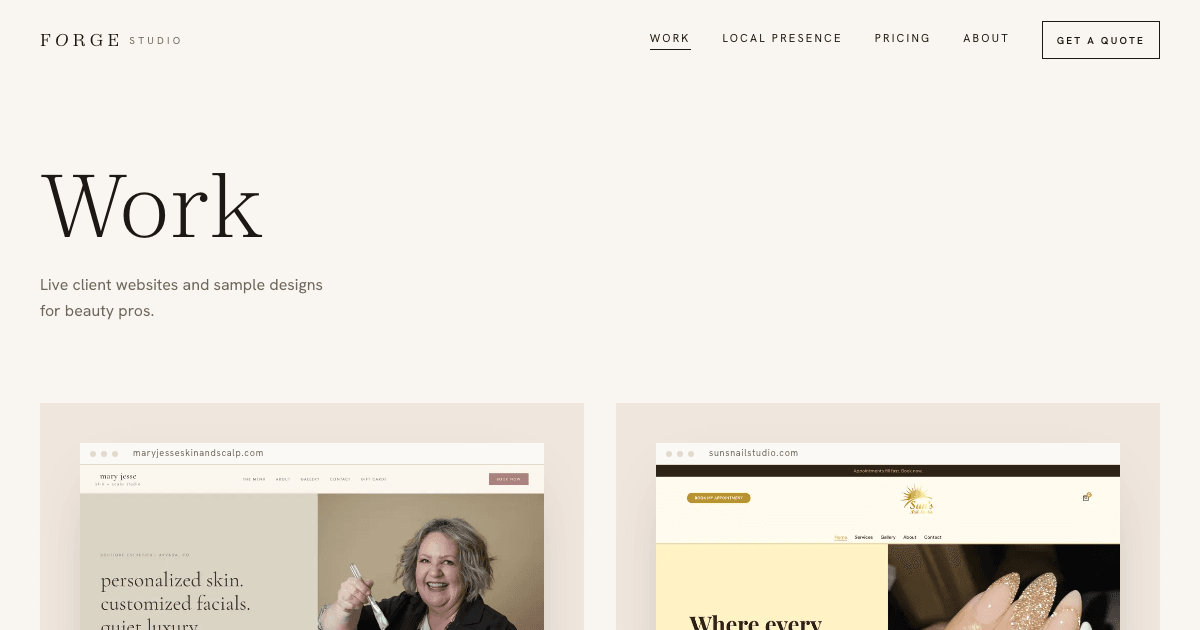
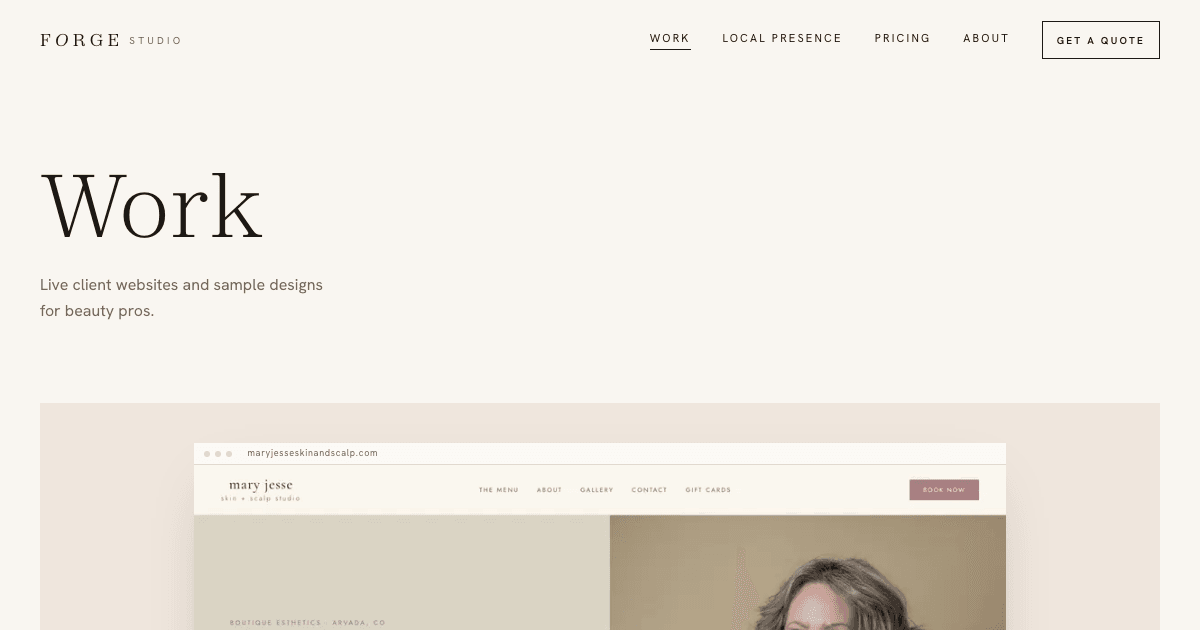
Add Maui Girl Nails, Victoria's Nail Secrets and AlyZel; Mary appears once on the homepage
Mary is Fig. 1 in the hero, so Recent work continues from Fig. 2 (Maui, Victoria,
AlyZel, Lumiere). Velvet moves to /portfolio only. Work page: Mary full width, then
Sun's, then the five sample designs. Shown with the owners' permission.

Changed region(s): [[0.0617, 0.6937, 0.9558, 1.0]]

diff --git a/lib/work.ts b/lib/work.ts
@@ -13,7 +13,7 @@ export type Project = {
   blurb: string
 }
 
-export const projects: Record<"mary" | "suns" | "lumiere" | "velvet", Project> = {
+export const projects: Record<"mary" | "suns" | "maui" | "victoria" | "alyzel" | "lumiere" | "velvet", Project> = {
   mary: {
     slug: "mary",
     name: "Mary Jesse Skin + Scalp Studio",
@@ -39,6 +39,47 @@ export const projects: Record<"mary" | "suns" | "lumiere" | "velvet", Project> =
     image900: "/images/work/suns-desktop-900.webp",
     alt: "Homepage of Sun's Nail Studio: \"Where every set shines.\" beside a close-up of a glitter manicure",
     blurb: "Appointment-first design for a solo studio, no front desk needed",
+  },
+  // Maui Girl Nails, Victoria's Nail Secrets and AlyZel: designs for real businesses that
+  // didn't go ahead. Shown with the owners' permission (Gaurav, 2026-11-19).
+  maui: {
+    slug: "maui",
+    name: "Maui Girl Nails",
+    category: "Nail Artist",
+    live: false,
+    url: "https://mauigirlnails.pages.dev",
+    external: true,
+    domain: "mauigirlnails.pages.dev",
+    image: "/images/work/maui-desktop.webp",
+    image900: "/images/work/maui-desktop-900.webp",
+    alt: "Homepage of the Maui Girl Nails design: \"Your little piece of Maui, right here in Sparks\" beside a photo of a nude and rose-gold manicure",
+    blurb: "One-artist studio site with Vagaro booking and a tap-a-color gallery of her sets",
+  },
+  victoria: {
+    slug: "victoria",
+    name: "Victoria's Nail Secrets",
+    category: "Nail Artist",
+    live: false,
+    url: "https://victoriasnailsecrets.pages.dev",
+    external: true,
+    domain: "victoriasnailsecrets.pages.dev",
+    image: "/images/work/victoria-desktop.webp",
+    image900: "/images/work/victoria-desktop-900.webp",
+    alt: "Homepage of the Victoria's Nail Secrets design: a dark, moody portrait under a gothic wordmark",
+    blurb: "Dark, editorial site for a custom acrylic artist, built around DM booking",
+  },
+  alyzel: {
+    slug: "alyzel",
+    name: "AlyZel Aesthetics & Wellness",
+    category: "Med Spa",
+    live: false,
+    url: "https://alyzel.pages.dev",
+    external: true,
+    domain: "alyzel.pages.dev",
+    image: "/images/work/alyzel-desktop.webp",
+    image900: "/images/work/alyzel-desktop-900.webp",
+    alt: "Homepage of the AlyZel Aesthetics & Wellness design: a bold pink page with the headline \"Making people happier, one injection at a time\"",
+    blurb: "Bold, pink med spa site for a nurse injector in Lubbock, TX, with booking and a direct line up front",
   },
   lumiere: {
     slug: "lumiere",

diff --git a/app/page.tsx b/app/page.tsx
@@ -51,7 +51,7 @@ const faqs = [
 ]
 
 export default function Home() {
-  const { mary, lumiere, velvet } = projects
+  const { mary, maui, victoria, alyzel, lumiere } = projects
 
   return (
     <>
@@ -99,26 +99,16 @@ export default function Home() {
             <a href="/portfolio" className="s-btn s-btn-outline self-start sm:self-auto">See all work</a>
           </div>
 
-          <div className="grid grid-cols-1 md:grid-cols-12 gap-x-8 gap-y-14">
-            <a {...workLinkProps(mary)} className="s-work-card reveal md:col-span-7 block">
-              <span className="s-plate flex items-center justify-center aspect-[4/5] md:aspect-[6/7] py-10">
-                <span className="s-phone block w-[52%] max-w-[340px]">
-                  <img src="/images/work/mary-phone.webp" width={780} height={1560} alt={`${mary.name} on a phone`} loading="lazy" decoding="async" />
+          {/* Mary is Fig. 1 in the hero, so the grid carries on from Fig. 2 */}
+          <div className="grid grid-cols-1 md:grid-cols-2 gap-x-8 gap-y-14">
+            {[maui, victoria, alyzel, lumiere].map((p, i) => (
+              <a key={p.slug} {...workLinkProps(p)} className="s-work-card reveal block">
+                <span className="s-plate block p-5 md:p-10">
+                  <BrowserFrame project={p} sizes="(min-width: 768px) 44vw, 92vw" />
                 </span>
-              </span>
-              <Caption project={mary} fig={2} blurb />
-            </a>
-
-            <div className="md:col-span-5 flex flex-col gap-14">
-              {[lumiere, velvet].map((p, i) => (
-                <a key={p.slug} {...workLinkProps(p)} className="s-work-card reveal block">
-                  <span className="s-plate block p-5 md:p-8">
-                    <BrowserFrame project={p} sizes="(min-width: 768px) 38vw, 92vw" />
-                  </span>
-                  <Caption project={p} fig={3 + i} blurb />
-                </a>
-              ))}
-            </div>
+                <Caption project={p} fig={2 + i} blurb />
+              </a>
+            ))}
           </div>
         </section>
 

diff --git a/app/portfolio/page.tsx b/app/portfolio/page.tsx
@@ -21,7 +21,7 @@ export const metadata: Metadata = {
 }
 
 // Live clients first (Mary, then Sun's), then sample designs.
-const order = [projects.mary, projects.suns, projects.lumiere, projects.velvet]
+const order = [projects.mary, projects.suns, projects.maui, projects.victoria, projects.alyzel, projects.lumiere, projects.velvet]
 
 export default function PortfolioPage() {
   return (
@@ -34,9 +34,11 @@ export default function PortfolioPage() {
 
           <div className="grid grid-cols-1 md:grid-cols-2 gap-x-8 gap-y-16">
             {order.map((p, i) => (
-              <a key={p.slug} {...workLinkProps(p)} className="s-work-card reveal block">
+              <a key={p.slug} {...workLinkProps(p)} className={`s-work-card reveal block ${i === 0 ? "md:col-span-2" : ""}`}>
                 <span className="s-plate block p-5 md:p-10">
-                  <BrowserFrame project={p} sizes="(min-width: 768px) 44vw, 92vw" priority={i === 0} />
+                  <span className={`block ${i === 0 ? "md:w-[78%] md:mx-auto" : ""}`}>
+                    <BrowserFrame project={p} sizes={i === 0 ? "(min-width: 768px) 70vw, 92vw" : "(min-width: 768px) 44vw, 92vw"} priority={i === 0} />
+                  </span>
                 </span>
                 <Caption project={p} fig={i + 1} blurb />
               </a>
